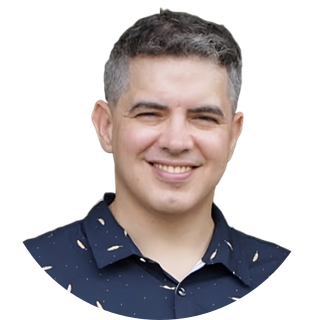
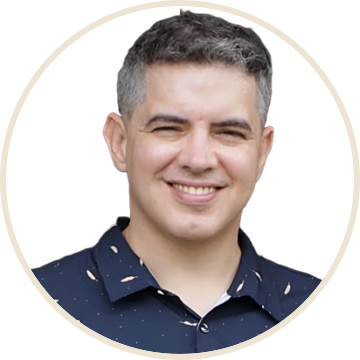
Redesign OG cards: dark warm palette + orange accent + cobogó
Borrowing the dark warm direction from #76 but adding what was
missing there:
- Cobogó motif tiled under the gradient (warm dark stroke).
- Circular avatar with cream ring as the logo.
- Subtle orange radial glow from the top-left.
- Fraunces SemiBold throughout, title 72px (was 56 in #76).
- #firsttag appended after description as a category hint.

Palette matches the site's dark-theme tokens (#1a1612 bg, #ede4d3
ink, #9d917e muted, #f56b3d accent).

https://claude.ai/code/session_0161vVgcjYWmfzKPdfiBu1hA

Changed region(s): [[0.0, 0.0, 1.0, 1.0]]

diff --git a/src/pages/og/[...slug].ts b/src/pages/og/[...slug].ts
@@ -6,13 +6,16 @@ import { getCollection } from "astro:content";
 const SKIP = process.env.SKIP_OG === "1";
 
 const posts = SKIP ? [] : await getCollection("blog");
-const pages: Record<string, { data: { title: string; description: string } }> =
-  Object.fromEntries(posts.map((post) => [post.id, post]));
+const pages: Record<
+  string,
+  { data: { title: string; description?: string; tags?: string[] } }
+> = Object.fromEntries(posts.map((post) => [post.id, post]));
 
 pages["_site"] = {
   data: {
     title: "Franklin Baldo",
     description: "Lawyer and State Attorney. Essays on AI agency, process metaphysics, and legal design.",
+    tags: ["digital-garden"],
   },
 };
 
@@ -24,37 +27,48 @@ const trunc = (s: string, n: number) => (s.length > n ? s.slice(0, n - 1).trimEn
 const route = await OGImageRoute({
   param: "slug",
   pages,
-  getImageOptions: (_path, post) => ({
-    title: trunc(post.data.title, 50),
-    description: trunc(post.data.description ?? "", 90),
-    logo: {
-      path: "./public/avatar-og.png",
-      size: [110, 110],
-    },
-    bgImage: {
-      path: "./public/og-bg.png",
-      fit: "cover",
-    },
-    padding: 72,
-    font: {
-      title: {
-        families: ["Fraunces"],
-        weight: "SemiBold",
-        size: 78,
-        color: [42, 36, 29],
-        lineHeight: 1.08,
+  getImageOptions: (_path, post) => {
+    const firstTag = post.data.tags?.[0];
+    const desc = [
+      trunc(post.data.description ?? "", 95),
+      firstTag ? `#${firstTag}` : "",
+    ]
+      .filter(Boolean)
+      .join("  ·  ");
+    return {
+      title: trunc(post.data.title, 50),
+      description: desc,
+      logo: {
+        path: "./public/avatar-og.png",
+        size: [110, 110],
       },
-      description: {
-        families: ["Fraunces"],
-        weight: "Normal",
-        size: 34,
-        color: [107, 98, 88],
-        lineHeight: 1.3,
+      bgImage: {
+        path: "./public/og-bg.png",
+        fit: "cover",
       },
-    },
-    fonts: [FRAUNCES_600, FRAUNCES_400],
-    quality: 92,
-  }),
+      // Orange top accent bar — Pico primary.
+      border: { color: [245, 107, 61], width: 10, side: "block-start" },
+      padding: 64,
+      font: {
+        title: {
+          families: ["Fraunces"],
+          weight: "SemiBold",
+          color: [237, 228, 211],
+          size: 72,
+          lineHeight: 1.08,
+        },
+        description: {
+          families: ["Fraunces"],
+          weight: "Normal",
+          color: [157, 145, 126],
+          size: 30,
+          lineHeight: 1.35,
+        },
+      },
+      fonts: [FRAUNCES_600, FRAUNCES_400],
+      quality: 92,
+    };
+  },
 });
 
 export const getStaticPaths = route.getStaticPaths;
